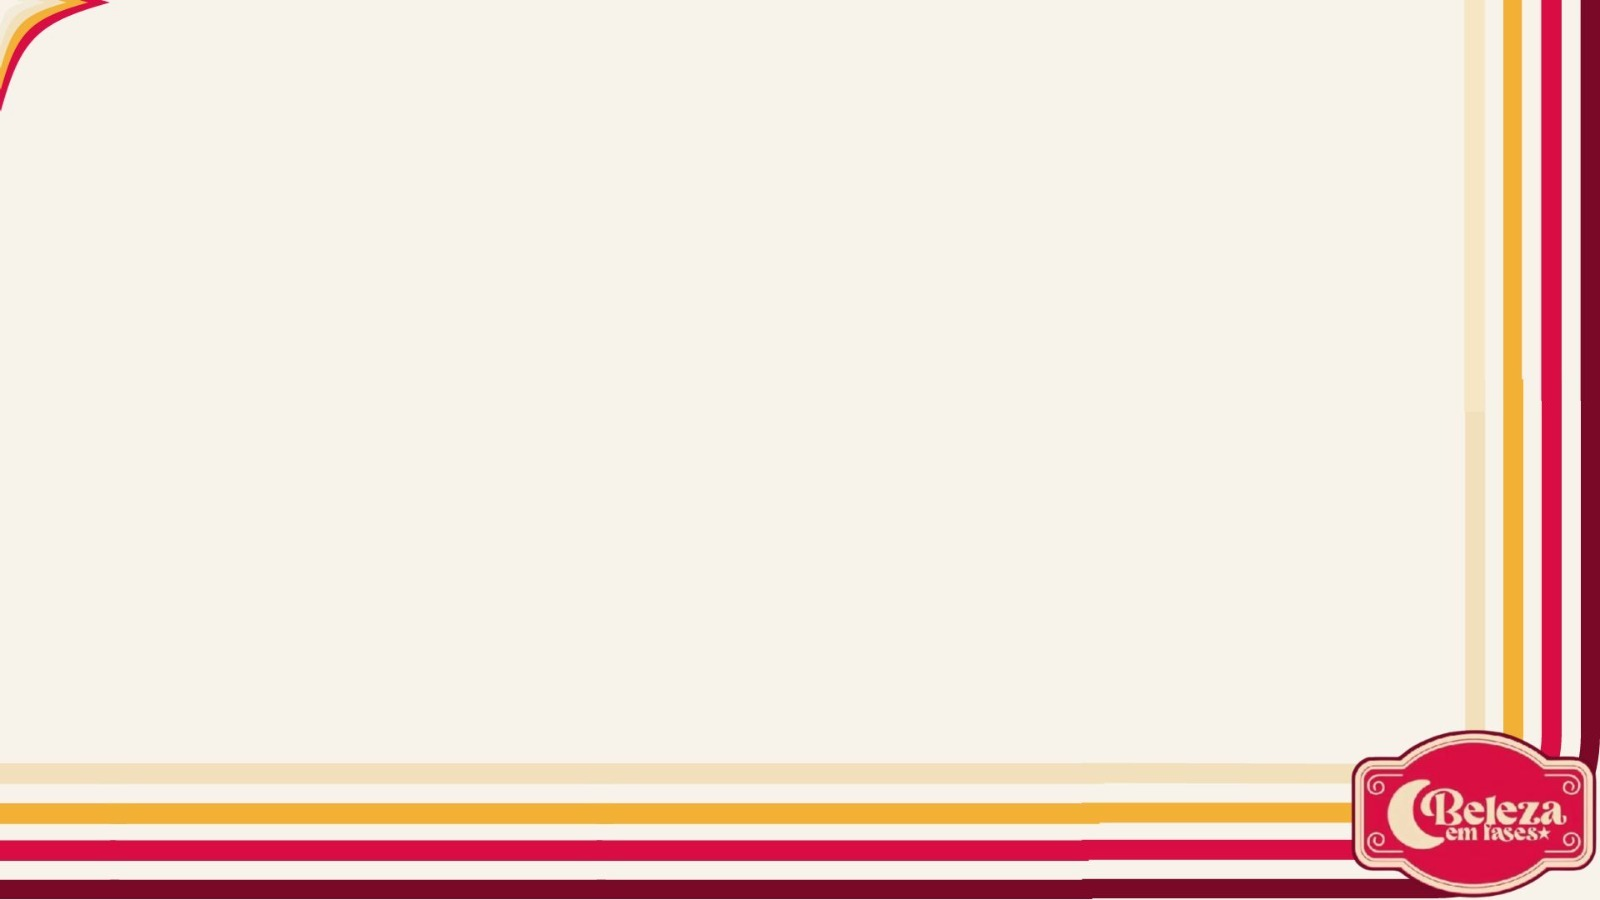
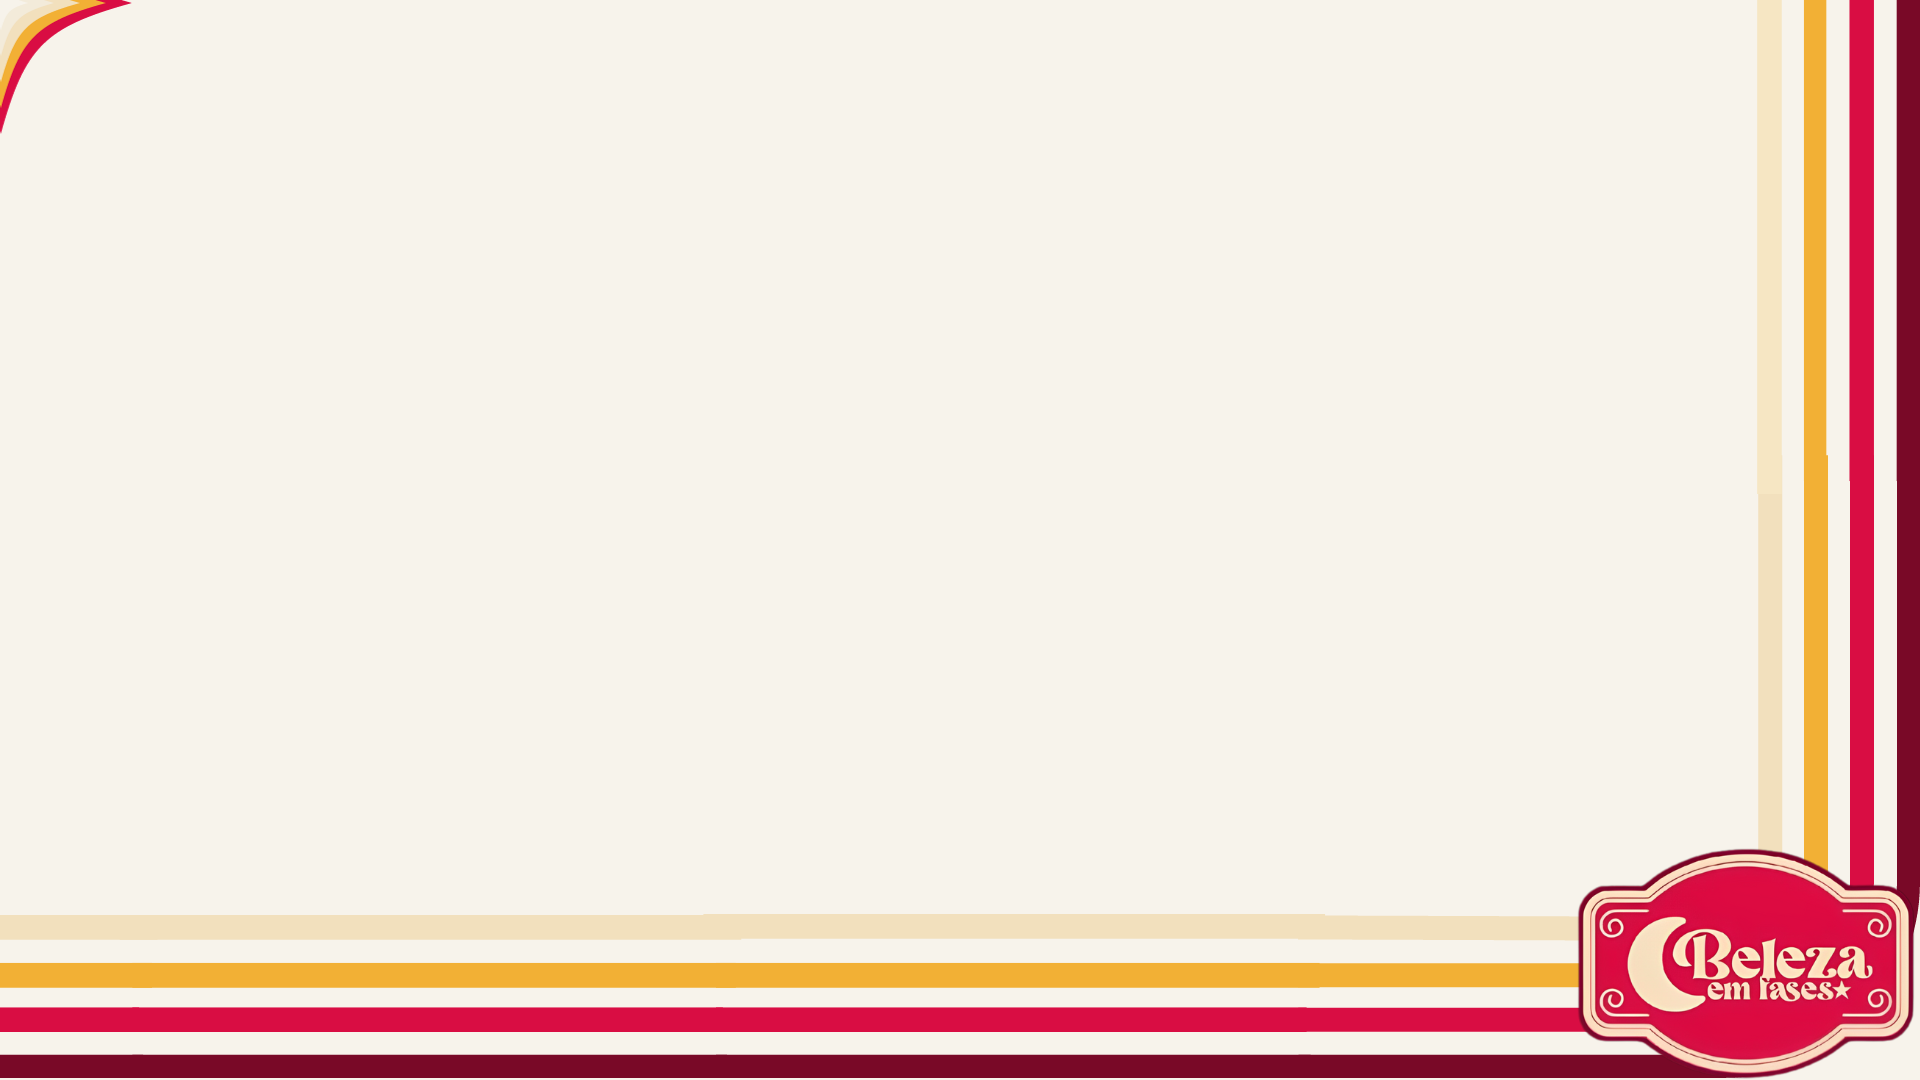
Agora vai hein

diff --git a/front/styles/cadastro.css b/front/styles/cadastro.css
@@ -1,6 +1,6 @@
 /* Lie, Lorrany, Luiza */
 body {
-    background: url(/front/images/telas/telaCadastro.png) no-repeat center center; 
+    background: url(/front/images/telas/telaCadastro.jpg) no-repeat center center; 
     background-size: cover;
     height: 800px;
     font-family: 'Capuche', sans-serif;
